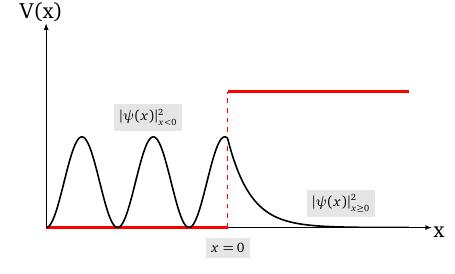
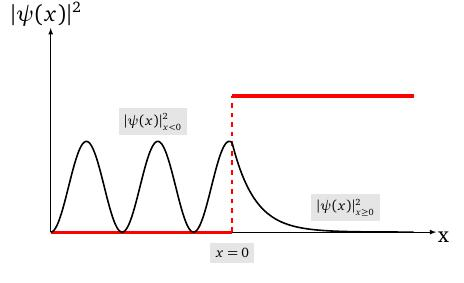
updated schrodinger equation

diff --git a/courses/quantum_chemistry/schroedinger_equation/index.html b/courses/quantum_chemistry/schroedinger_equation/index.html
@@ -17,7 +17,7 @@ class: center, middle, inverse, title-slide
 ## A equação de Scrödinger
 ### Flaviano Williams Fernandes
 ### Instituto Federal do Paraná - Irati
-### 16 de março de 2021 (atualizado em 24/03/2022)
+### 16 de março de 2021 (atualizado em 25/03/2022)
 
 ---
 
@@ -60,7 +60,7 @@ class: middle
 &lt;div class="my-header"&gt;&lt;span&gt;A equação de Scrödinger - Considerações iniciais&lt;/span&gt;&lt;/div&gt;
 
 .pull-left[
-Em física, para analisar qualquer sistema físico precisamos obter uma expressão matemática que representa esse sistema. Matematicamente, o primeiro passo seria encontrar uma equação matemática, cuja solução nos fornece a variável que precisamos. Essa equação geralmente é uma equação diferencial, ou seja, uma equação contendo derivadas de diversas ordens. []
+Em física, para analisar qualquer sistema físico precisamos obter uma expressão matemática que representa esse sistema. Matematicamente, o primeiro passo seria encontrar uma equação matemática, cuja solução nos fornece a variável que precisamos. Essa equação geralmente é uma equação diferencial, ou seja, uma equação contendo derivadas de diversas ordens. [&lt;a name=cite-nussenzveig&gt;&lt;/a&gt;&lt;a name=cite-tipler&gt;&lt;/a&gt;&lt;a name=cite-mcquarrie&gt;&lt;/a&gt;&lt;a name=cite-braga&gt;&lt;/a&gt;&lt;a name=cite-eisberg&gt;&lt;/a&gt;([Nussenzveig, 2003](https://books.google.com.br/books?id=KjHjAAAACAAJ); [Tipler and Llewellyn, 2003](https://books.google.com.br/books?id=tpU18JqcSNkC); [McQuarrie, 2008](https://books.google.com.br/books?id=zzxLTIljQB4C); [Braga, 2007](https://www.editoraufv.com.br/produto/fundamentos-de-quimica-quantica/1108949); [Eisberg, Eisberg, Resnick, Caldwell, Derringh, Christman, and Sons, 1985](https://books.google.com.br/books?id=mv5QAAAAMAAJ))]
 Portanto, para estudar o sistema físico, o primeiro passo seria construir essa equação diferencial. Agora, qual seria a variável de interesse, que pode ser obtida a partir dessa equação diferencial? Bem... um elétron pode ser estudado do ponto de vista quântico a partir da função de onda que descreve o seu movimento. Portanto, a solução desejada após resolver essas equação diferencial deverá ser a função de onda do sistema físico.
 ]
 .pull-right[
@@ -264,7 +264,7 @@ Sabendo que `\(c'_1\)` e `\(c'_2\)` são constantes, então podemos substituí-l
 ---
 class: middle
 
-&lt;div class="my-header"&gt;&lt;span&gt;Aplicações da equação de Schrodinger - Potencial degrau(E &lt; V&lt;sub&gt;0&lt;/sub&gt;)&lt;/span&gt;&lt;/div&gt;
+&lt;div class="my-header"&gt;&lt;span&gt;Aplicações da equação de Schrodinger - Potencial degrau(E &lt; V0)&lt;/span&gt;&lt;/div&gt;
 
 .pull-left[
 Imagine um elétron se movendo na direção do eixo x de um sistema formado por dois eletrodos ligeiramente separados, assim como mostra a figura ao lado. Esses eletrodos produzem uma diferença de potencial `\(V_0\)` justamente na posição de separação `\(x=0\)`. Do ponto de vista de mecânica clássica, poderíamos imaginar uma partícula se movendo livremente até `\(x=0\)`. A partir daí a partícula sofreria a ação de uma força atuando no sentido contrário a x. Caso a energia da partícula fosse menor que `\(V_0\)`, ela 
@@ -291,7 +291,7 @@ Temos assim duas regiões distintas no qual o elétron estaria sendo submetido. 
 ---
 class: middle
 
-&lt;div class="my-header"&gt;&lt;span&gt;Aplicações da equação de Schrodinger - Potencial degrau(E &lt; V&lt;sub&gt;0&lt;/sub&gt;)&lt;/span&gt;&lt;/div&gt;
+&lt;div class="my-header"&gt;&lt;span&gt;Aplicações da equação de Schrodinger - Potencial degrau(E &lt; V0)&lt;/span&gt;&lt;/div&gt;
 
 .pull-left[
 Considere uma situação onde a energia do elétron é menor que a energia potencial `\(V_0\)`. A figura abaixo mostra graficamente uma situação deste tipo,
@@ -325,7 +325,7 @@ Para `\(x\ge 0\)` a equação de Schrodinger se torna
 ---
 class: middle
 
-&lt;div class="my-header"&gt;&lt;span&gt;Aplicações da equação de Schrodinger - Potencial degrau(E &lt; V&lt;sub&gt;0&lt;/sub&gt;)&lt;/span&gt;&lt;/div&gt;
+&lt;div class="my-header"&gt;&lt;span&gt;Aplicações da equação de Schrodinger - Potencial degrau(E &lt; V0)&lt;/span&gt;&lt;/div&gt;
 
 .pull-left[
 Dividindo ambos os lados da equação por `\(2m/\hbar^2\)`, onde m é a massa do elétron, teremos
@@ -363,7 +363,7 @@ Multiplicando a primeira equação por `\(ik_1\)` e adicionando a segunda equaç
 ---
 class: middle
 
-&lt;div class="my-header"&gt;&lt;span&gt;Aplicações da equação de Schrodinger - Potencial degrau(E &lt; V&lt;sub&gt;0&lt;/sub&gt;)&lt;/span&gt;&lt;/div&gt;
+&lt;div class="my-header"&gt;&lt;span&gt;Aplicações da equação de Schrodinger - Potencial degrau(E &lt; V0)&lt;/span&gt;&lt;/div&gt;
 
 .pull-left[
 Agora multiplicando a primeira equação por `\(-ik_1\)` e somando com a segunda teremos
@@ -405,7 +405,7 @@ Substituindo em `\(\psi(x)\)` chegaremos na solução final,
 ---
 class: middle
 
-&lt;div class="my-header"&gt;&lt;span&gt;Aplicações da equação de Schrodinger - Potencial degrau(E &lt; V&lt;sub&gt;0&lt;/sub&gt;)&lt;/span&gt;&lt;/div&gt;
+&lt;div class="my-header"&gt;&lt;span&gt;Aplicações da equação de Schrodinger - Potencial degrau(E &lt; V0)&lt;/span&gt;&lt;/div&gt;
 
 .pull-left[
 Agora vamos determinar a densidade de probabilidade de encontrar o elétron por unidade de comprimento x, ou seja, `\(\psi^*(x)\psi(x)\)` (*lembrando que `\(|\Psi(x,t)|^2\equiv |\psi(x)|^2\)`*). Para `\(x&lt;0\)` teremos
@@ -437,7 +437,7 @@ Para `\(x\ge 0\)` teremos
 ---
 class: middle
 
-&lt;div class="my-header"&gt;&lt;span&gt;Aplicações da equação de Schrodinger - Potencial degrau (E &lt; V&lt;sub&gt;0&lt;/sub&gt;)&lt;/span&gt;&lt;/div&gt;
+&lt;div class="my-header"&gt;&lt;span&gt;Aplicações da equação de Schrodinger - Potencial degrau (E &lt; V0)&lt;/span&gt;&lt;/div&gt;
 
 .pull-left[
 &lt;div class="figure" style="text-align: center"&gt;
@@ -458,8 +458,8 @@ class: middle
 Agora, considere uma situação onde a energia do elétron é maior ou igual a energia potencial `\(V_0\)`. A figura abaixo mostra graficamente uma situação deste tipo,
 
 &lt;div class="figure" style="text-align: center"&gt;
-&lt;img src="img/potencial-degrau-energia2.jpeg" alt="Representação gráfica da energia  potencial." width="75%" /&gt;
-&lt;p class="caption"&gt;Representação gráfica da energia  potencial.&lt;/p&gt;
+&lt;img src="img/potencial-degrau-energia2.jpeg" alt="Representação gráfica da densidade de probabilidade." width="75%" /&gt;
+&lt;p class="caption"&gt;Representação gráfica da densidade de probabilidade.&lt;/p&gt;
 &lt;/div&gt;
 
 Assim como no caso `\(E&lt;V_0\)`, podemos separar a solução do problema nas regiões `\(x&lt;0\)` e `\(x\ge 0\)`. Para `\(x&lt;0\)` ainda permanece a solução da partícula livre, onde
@@ -488,7 +488,7 @@ Podemos ver que a solução geral desta equação seria `\(\psi(x)=c_3e^{ik_2x}+
 ---
 class: middle
 
-&lt;div class="my-header"&gt;&lt;span&gt;Aplicações da equação de Schrodinger - Potencial degrau(E &gt; V&lt;sub&gt;0&lt;/sub&gt;)&lt;/span&gt;&lt;/div&gt;
+&lt;div class="my-header"&gt;&lt;span&gt;Aplicações da equação de Schrodinger - Potencial degrau (E &gt; V0)&lt;/span&gt;&lt;/div&gt;
 
 .pull-left[
 
@@ -513,20 +513,20 @@ Substituindo `\(c_3\)` da primeira equação na segunda teremos
 `\begin{aligned}
     (c_1-c_2)k_1 &amp; = k_2(c_1+c_2),\\
     c_1k_1-c_2k_1 &amp; = c_1k_2+c_2k_2,\\
-    c_2 &amp; = \frac{k_2+k_1}{k_2-k_1}c_1.
+    c_2 &amp; = \frac{k_1-k_2}{k_1+k_2}c_1.
 \end{aligned}`
 Substituindo `\(c_2\)` na primeira equação teremos
 `\begin{aligned}
   c_1+c_2 &amp; = c_3,\\
-  c_1+\frac{k_2+k_1}{k_2-k_1}c_1 &amp; = c_3,\\
-  c_3 &amp; = \frac{2k_2}{k_2-k_1}c_1.
+  c_1+\frac{k_1-k_2}{k_1+k_2}c_1 &amp; = c_3,\\
+  c_3 &amp; = \frac{2k_1}{k_1+k_2}c_1.
 \end{aligned}`
 Substituindo `\(c_2\)` e `\(c_3\)` em `\(\psi\)` chegamos na solução
 `\begin{aligned}
 \psi(x)=
   \begin{cases}
-    c_1e^{ik_1x}+c_1\frac{k_2+k_1}{k_2-k_1}e^{-ik_1x},\quad &amp; (x&lt;0),\\
-    c_1\frac{2k_2}{k_2-k_1}e^{ik_2x},\quad &amp; (x\ge 0).
+    c_1e^{ik_1x}+c_1\frac{k_1-k_2}{k_1+k_2}e^{-ik_1x},\quad &amp; (x&lt;0),\\
+    c_1\frac{2k_1}{k_1+k_2}e^{ik_2x},\quad &amp; (x\ge 0).
   \end{cases}
 \end{aligned}`
 Para obter `\(c_1\)`, usamos a condição da probabilidade de 100% de encontrar a partícula em qualquer região.
@@ -536,9 +536,72 @@ Para obter `\(c_1\)`, usamos a condição da probabilidade de 100% de encontrar 
 ---
 class: middle
 
+&lt;div class="my-header"&gt;&lt;span&gt;Aplicações da equação de Schrodinger - Potencial degrau (E &gt; V0)&lt;/span&gt;&lt;/div&gt;
+
+.pull-left[
+
+Agora vamos determinar a densidade de probabilidade, `\(|\psi(x)|^2\)`. Para `\(x&lt;0\)` teremos
+`\begin{aligned}
+  |\psi(x)|^2 &amp; = |c_1|^2\left[e^{ik_1x}+\frac{k_1-k_2}{k_1+k_2}e^{-ik_1x}\right]^*\times\\
+  &amp; \times \left[e^{ik_1x}+\frac{k_1-k_2}{k_1+k_2}e^{-ik_1x}\right].
+\end{aligned}`
+Consideremos o valor complexo `\(z=Ae^{i\theta}+Be^{-i\theta}\)`, onde A e B são valores reais. teremos
+`\begin{aligned}
+  z^\star z &amp; = \left(Ae^{i\theta}+Be^{-i\theta}\right)^*\left(Ae^{i\theta}+Be^{-i\theta}\right),\\
+  &amp; = A^2+B^2+ABe^{2i\theta}+ABe^{-2i\theta},\\
+  z^\star z &amp; = A^2+B^2+2AB\cos(2\theta).
+\end{aligned}`
+Supondo `\(A=1\)` e `\(B=\frac{k_1-k_2}{k_1+k_2}\)` na equação acima,
+`\begin{aligned}
+  |\psi(x)|^2 = |c_1|^2\left[1+\frac{(k_1-k_2)^2}{(k_1+k_2)^2}+2\frac{k_1-k_2}{k_1+k_2}\cos(2k_1x)\right].
+\end{aligned}`
+
+]
+.pull-right[
+
+Para `\(x\ge 0\)` teremos
+`\begin{aligned}
+  |\psi(x)|^2_{x\ge 0} &amp; = \left[c_1\frac{2k_1}{k_1+k_2}e^{ik_2x}\right]^*\left[c_1\frac{2k_1}{k_1+k_2}e^{ik_2x}\right].\\
+  |\psi(x)|^2_{x\ge 0} &amp; = |c_1|^2\left(\frac{2k_1}{k_1+k_2}\right)^2.
+\end{aligned}`
+
+A figura abaixo mostra a densidade de probabilidade para `\(x&lt;0\)` e para `\(x\ge 0\)`.
+
+&lt;div class="figure" style="text-align: center"&gt;
+&lt;img src="img/potencial-degrau-energia2.jpeg" alt="Representação gráfica da densidade de probabilidade." width="75%" /&gt;
+&lt;p class="caption"&gt;Representação gráfica da densidade de probabilidade.&lt;/p&gt;
+&lt;/div&gt;
+
+]
+
+---
+class: middle
+
 &lt;div class="my-header"&gt;&lt;span&gt;Bibliografia&lt;/span&gt;&lt;/div&gt;
 
-NULL
+&lt;a name=bib-braga&gt;&lt;/a&gt;[Braga, J. P.](#cite-braga) (2007). _Fundamentos
+de Química Quântica_. Editora UFV, p. 272. ISBN: 8572692673. URL:
+[https://www.editoraufv.com.br/produto/fundamentos-de-quimica-quantica/1108949](https://www.editoraufv.com.br/produto/fundamentos-de-quimica-quantica/1108949).
+
+&lt;a name=bib-eisberg&gt;&lt;/a&gt;[Eisberg, R., R. M. Eisberg, R. Resnick, et
+al.](#cite-eisberg) (1985). _Quantum Physics of Atoms, Molecules,
+Solids, Nuclei, and Particles_. Quantum Physics of Atoms, Molecules,
+Solids, Nuclei and Particles. Wiley. ISBN: 9780471873730. URL:
+[https://books.google.com.br/books?id=mv5QAAAAMAAJ](https://books.google.com.br/books?id=mv5QAAAAMAAJ).
+
+&lt;a name=bib-mcquarrie&gt;&lt;/a&gt;[McQuarrie, D. A.](#cite-mcquarrie) (2008).
+_Quantum Chemistry_. University Science Books. ISBN: 9781891389504.
+URL:
+[https://books.google.com.br/books?id=zzxLTIljQB4C](https://books.google.com.br/books?id=zzxLTIljQB4C).
+
+&lt;a name=bib-nussenzveig&gt;&lt;/a&gt;[Nussenzveig, H. M.](#cite-nussenzveig)
+(2003). _Curso de física básica: ótica, relatividade, física quântica_.
+Curso de física básica. Edgard Blucher. ISBN: 9788521201632. URL:
+[https://books.google.com.br/books?id=KjHjAAAACAAJ](https://books.google.com.br/books?id=KjHjAAAACAAJ).
+
+&lt;a name=bib-tipler&gt;&lt;/a&gt;[Tipler, P. A. and R. Llewellyn](#cite-tipler)
+(2003). _Modern Physics_. W. H. Freeman. ISBN: 9780716743453. URL:
+[https://books.google.com.br/books?id=tpU18JqcSNkC](https://books.google.com.br/books?id=tpU18JqcSNkC).
 
     </textarea>
 <style data-target="print-only">@media screen {.remark-slide-container{display:block;}.remark-slide-scaler{box-shadow:none;}}</style>
